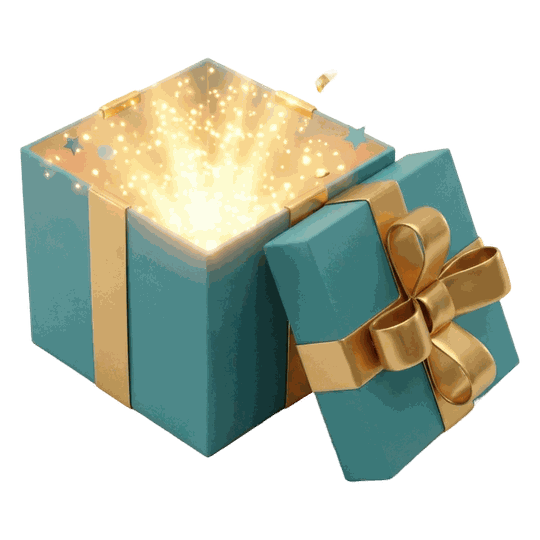
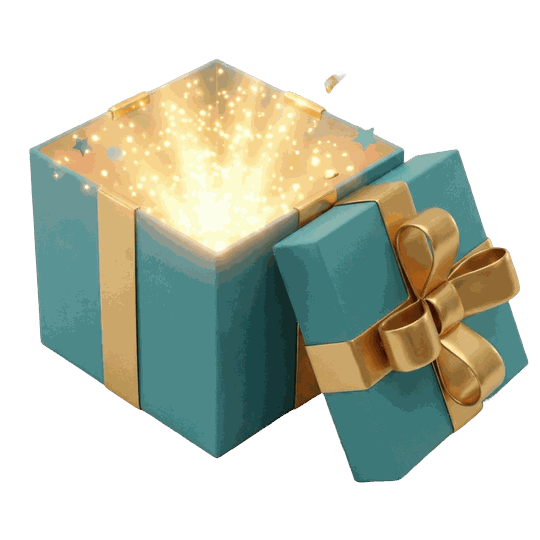
fix(medirun): opened box stays centred and whole, hub wallet shows errors and refreshes live (1.0.0.20.38)
Owner after testing: the open box looked offset and cut off; the hub's balance and history cards were
squashed together; the history said "no box opened yet" right after opening one.
- Opening screen: square artwork stage, the picture itself is never rotated (the wrapper shakes), the middle
  scrolls instead of cropping; both gift PNGs re-exported as true RGBA with the visual mass centred.
- Hub wallet: 12 px between cards; a failed request shows "couldn't load" with retry instead of the empty
  copy; the query is LIVE (re-read on every focus) and re-renders on every published balance.
- Season numbers also count boxes opened before the campaign start date.

Changed region(s): [[0.0296, 0.0889, 0.9778, 0.8889], [0.7111, 0.8296, 0.8, 0.8889], [0.6519, 0.8889, 0.7111, 0.9185]]

diff --git a/mobile/src/components/run/PulseGift.tsx b/mobile/src/components/run/PulseGift.tsx
@@ -1,5 +1,5 @@
 import React,{useEffect,useRef,useState} from 'react';
-import {Animated,Easing,Pressable,View} from 'react-native';
+import {Animated,Easing,Pressable,ScrollView,View} from 'react-native';
 import {LinearGradient} from 'expo-linear-gradient';
 import * as Haptics from 'expo-haptics';
 import {Gift,X} from 'lucide-react-native';
@@ -21,12 +21,16 @@ const COINS=10;
 
 /** Generated 3D gift (fal.ai) floating in its own glow; `open` is the discovered state. */
 export function GiftArtwork({size=210,open=false,shake}:{size?:number;open?:boolean;shake?:Animated.Value}){
- const reduced=usePrefersReducedMotion(),float=useRef(new Animated.Value(0)).current,glow=open?AMBER:'#5EEAD4';
+ const reduced=usePrefersReducedMotion(),float=useRef(new Animated.Value(0)).current,glow=open?AMBER:'#5EEAD4',box=Math.round(size*1.4);
  useEffect(()=>{if(reduced)return;const wave=(to:number)=>Animated.timing(float,{toValue:to,duration:1500,easing:Easing.inOut(Easing.sin),useNativeDriver:true});const loop=Animated.loop(Animated.sequence([wave(1),wave(0)]));loop.start();return()=>loop.stop();},[reduced,float]);
- const rotate=shake?shake.interpolate({inputRange:[-1,0,1],outputRange:['-7deg','0deg','7deg']}):'0deg';
- return <View style={{width:size*1.45,height:size*1.3,alignItems:'center',justifyContent:'center'}}>
-  <Svg pointerEvents="none" style={{position:'absolute'}} width={size*1.45} height={size*1.3}><Defs><RadialGradient id="giftGlow" cx="50%" cy="50%" r="50%"><Stop offset="0" stopColor={glow} stopOpacity={open?.6:.34}/><Stop offset="1" stopColor={glow} stopOpacity="0"/></RadialGradient></Defs><Ellipse cx="50%" cy="50%" rx="50%" ry="50%" fill="url(#giftGlow)"/></Svg>
-  <Animated.Image source={open?RUN_GIFT_OPEN:RUN_GIFT} accessibilityIgnoresInvertColors resizeMode="contain" style={{width:size,height:size,transform:[{translateY:float.interpolate({inputRange:[0,1],outputRange:[0,-10]})},{rotate}]}}/>
+ const rotate=shake?shake.interpolate({inputRange:[-1,0,1],outputRange:['-6deg','0deg','6deg']}):'0deg';
+ // A square stage: the glow is a sibling behind the picture, the picture keeps its own square and is never
+ // rotated itself (a rotated image gets clipped on Android) — the wrapper view shakes instead.
+ return <View style={{width:box,height:box,alignItems:'center',justifyContent:'center',overflow:'visible'}}>
+  <Svg pointerEvents="none" style={{position:'absolute',left:0,top:0}} width={box} height={box}><Defs><RadialGradient id={open?'giftGlowOpen':'giftGlow'} cx="50%" cy="50%" r="50%"><Stop offset="0" stopColor={glow} stopOpacity={open?.55:.34}/><Stop offset="1" stopColor={glow} stopOpacity="0"/></RadialGradient></Defs><Ellipse cx="50%" cy="50%" rx="50%" ry="50%" fill={`url(#${open?'giftGlowOpen':'giftGlow'})`}/></Svg>
+  <Animated.View style={{width:size,height:size,overflow:'visible',transform:[{translateY:float.interpolate({inputRange:[0,1],outputRange:[0,-10]})},{rotate}]}}>
+   <Animated.Image source={open?RUN_GIFT_OPEN:RUN_GIFT} accessibilityIgnoresInvertColors resizeMode="contain" style={{width:size,height:size,backgroundColor:'transparent'}}/>
+  </Animated.View>
  </View>;
 }
 
@@ -89,8 +93,8 @@ export function PulseGift({visible,signal,onClose}:{visible:boolean;signal:GiftS
     <Copy bold size={12} style={{color:MINT,letterSpacing:1.5}}>{claim?tx('შენი ახალი აღმოჩენა','YOUR NEW FIND'):tx('MEDIRUN · აღმოჩენა','MEDIRUN · A FIND')}</Copy>
     <Pressable accessibilityRole="button" accessibilityLabel={tx('დახურვა','Close')} hitSlop={8} onPress={onClose} style={{width:40,height:40,borderRadius:14,backgroundColor:'rgba(255,255,255,0.10)',alignItems:'center',justifyContent:'center'}}><X size={18} color={WHITE}/></Pressable>
    </View>
-   <View style={{flex:1,alignItems:'center',justifyContent:'center',paddingHorizontal:24,gap:6}}>
-    <View style={{alignItems:'center',justifyContent:'center'}}><GiftArtwork size={claim?180:220} open={Boolean(claim)} shake={shake}/><CoinBurst play={Boolean(claim)}/></View>
+   <ScrollView style={{flex:1}} contentContainerStyle={{flexGrow:1,alignItems:'center',justifyContent:'center',paddingHorizontal:24,paddingVertical:12,gap:6}} showsVerticalScrollIndicator={false} bounces={false}>
+    <View style={{alignItems:'center',justifyContent:'center',overflow:'visible'}}><GiftArtwork size={claim?170:210} open={Boolean(claim)} shake={shake}/><CoinBurst play={Boolean(claim)}/></View>
     {claim?<Animated.View style={{alignItems:'center',gap:6,opacity:reveal,transform:[{translateY:reveal.interpolate({inputRange:[0,1],outputRange:[24,0]})}]}}>
      {physical?<Copy bold size={28} style={{color:WHITE,textAlign:'center'}}>{claim.reward.title}</Copy>:<><CountUp to={paid}/><Copy bold size={16} style={{color:MINT,marginTop:-6}}>Medi Coins</Copy></>}
      {rank?<View style={{marginTop:10,paddingHorizontal:14,paddingVertical:8,borderRadius:16,backgroundColor:rank===1?'rgba(252,211,77,0.18)':'rgba(255,255,255,0.10)'}}><Copy bold size={13} style={{color:rank===1?AMBER:WHITE,textAlign:'center'}}>{rank===1?tx('🏆 პირველი აღმომჩენი — სრული თანხა','🏆 First finder — the full amount'):tx(`მე-${rank} გამხსნელი${claim.reward.base?` · პირველმა ${num(claim.reward.base)} აიღო`:''}`,`Opener #${rank}${claim.reward.base?` · the first got ${num(claim.reward.base)}`:''}`)}</Copy></View>:null}
@@ -102,7 +106,7 @@ export function PulseGift({visible,signal,onClose}:{visible:boolean;signal:GiftS
      <Copy size={14} style={{color:'#CCFBF1',textAlign:'center'}}>{inRange?tx('პულსმა აქ მოგიყვანა — ყუთი შენს წინაა.','The pulse led you here — the box is right in front of you.'):tx('ყუთის დიაპაზონს გასცდი. მიუახლოვდი 20 მეტრზე და გახსნა ისევ გაჩნდება.','You’ve stepped out of the box’s range. Get within 20 metres and the opening comes back.')}</Copy>
      {coinsNow?<View style={{marginTop:8,alignItems:'center',paddingHorizontal:18,paddingVertical:12,borderRadius:20,backgroundColor:'rgba(255,255,255,0.10)',gap:2}}><Copy bold size={24} style={{color:AMBER,fontVariant:['tabular-nums']}}>{num(coinsNow)} Medi Coins</Copy><Copy size={12} style={{color:'#CCFBF1',textAlign:'center'}}>{rankLine(gift||{})}</Copy></View>:gift?.description?<Copy size={12} style={{color:'#CCFBF1',textAlign:'center'}}>{gift.description}</Copy>:null}
     </View>}
-   </View>
+   </ScrollView>
    <View style={{paddingHorizontal:20,gap:10}}>
     {error?<View style={{padding:12,borderRadius:16,backgroundColor:'rgba(248,113,113,0.16)'}}><Copy size={13} style={{color:'#FECACA',textAlign:'center'}}>{error}</Copy></View>:null}
     {claim?<Action label={tx('ჩემია!','It’s mine!')} onPress={onClose}/>

diff --git a/mobile/src/components/run/RunWallet.tsx b/mobile/src/components/run/RunWallet.tsx
@@ -1,13 +1,12 @@
 import React from 'react';
 import {Pressable,View} from 'react-native';
 import {useRouter} from 'expo-router';
-import {ChevronRight,Gift,Sparkles,Store,Trophy} from 'lucide-react-native';
+import {ChevronRight,Gift,RefreshCw,Sparkles,Store,Trophy} from 'lucide-react-native';
 import {Bone} from '@/components/ui/Skeleton';
 import {QuestCoinMark} from '@/components/quest/QuestIcon';
 import {questDate} from '@/components/quest/store/QuestStoreKit';
 import {useFeatureState,isFeatureOn} from '@/lib/featureFlags';
 import {useRunWallet,type WalletRow} from '@/lib/medipulsi/wallet';
-import {getMediCoinBalanceHint} from '@/lib/quest/cache';
 import {tx} from '@/i18n/locale';
 import {useIsDark,useThemeColors} from '@/theme/colors';
 import {hubTint} from '@/theme/hub';
@@ -39,11 +38,12 @@ export function rowDetail(row:WalletRow){
 export function RunWallet(){
  const router=useRouter(),c=useThemeColors(),dark=useIsDark(),teal=runInk('teal',dark),amber=dark?AMBER_DARK:AMBER_LIGHT,flags=useFeatureState();
  const query=useRunWallet(),data=query.data;
- const hint=getMediCoinBalanceHint(),balance=hint??data?.balance??null;
+ const balance=query.liveBalance??data?.balance??null,failed=query.isError&&!data;
  const storeOn=isFeatureOn('quest',flags)&&isFeatureOn('rewardsStore',flags);
  const rows=(data?.rows||[]).slice(0,5);
  const toWallet=()=>router.push('/medi-quest/wallet' as never),toStore=()=>router.push('/medi-quest/rewards' as never);
  return <Section title="Medi Coins" link={tx('ყველა ისტორია','Full history')} onLink={toWallet}>
+  <View style={{gap:12}}>
   <Card style={{gap:14}}>
    <View style={{flexDirection:'row',alignItems:'center',gap:12}}>
     <View style={{width:46,height:46,borderRadius:15,backgroundColor:hubTint(amber,dark),alignItems:'center',justifyContent:'center'}}><QuestCoinMark size={26}/></View>
@@ -62,6 +62,7 @@ export function RunWallet(){
    </View>
   </Card>
   {query.isLoading&&!data?<Card style={{gap:10}}>{[0,1,2].map(i=><Bone key={i} height={44} radius={12}/>)}</Card>
+  :failed?<Card style={{gap:10}}><Copy bold size={14}>{tx('ისტორია ვერ ჩაიტვირთა','Couldn’t load your history')}</Copy><Copy muted size={12}>{tx('შეამოწმე ინტერნეტი და სცადე ხელახლა.','Check your connection and try again.')}</Copy><Pressable accessibilityRole="button" onPress={()=>void query.refetch()} style={{alignSelf:'flex-start',minHeight:40,paddingHorizontal:14,borderRadius:14,backgroundColor:hubTint(teal,dark),flexDirection:'row',alignItems:'center',gap:6}}><RefreshCw size={14} color={teal}/><Copy bold size={12} style={{color:teal}}>{tx('ხელახლა ცდა','Try again')}</Copy></Pressable></Card>
   :!rows.length?<Card><Copy muted size={13}>{tx('ყუთი ჯერ არ გაგიხსნია. პირველივე გახსნის ქოინები აქ გამოჩნდება — როდის, სად და რამდენი.','No box opened yet. The coins from your first opening show up here — when, where and how much.')}</Copy></Card>
   :<Card style={{paddingVertical:6,gap:0}}>
    {rows.map((row,i)=>{
@@ -74,5 +75,6 @@ export function RunWallet(){
    })}
    {(data?.rows.length||0)>rows.length?<Pressable accessibilityRole="button" onPress={toWallet} style={{minHeight:44,flexDirection:'row',alignItems:'center',justifyContent:'center',gap:6,borderTopWidth:1,borderColor:c.bg200}}><Copy bold size={13} style={{color:teal}}>{tx('ყველა მოძრაობა','All movements')}</Copy><ChevronRight size={14} color={teal}/></Pressable>:null}
   </Card>}
+  </View>
  </Section>;
 }

diff --git a/mobile/src/lib/medipulsi/wallet.ts b/mobile/src/lib/medipulsi/wallet.ts
@@ -1,8 +1,8 @@
-import {useEffect} from 'react';
+import {useEffect,useState} from 'react';
 import {useAccountQuery} from '@/hooks/useAccountQuery';
 import {FRESH} from '@/lib/queryClient';
 import {pulseApi} from '@/lib/medipulsi/client';
-import {subscribeMediCoinBalance} from '@/lib/quest/cache';
+import {getMediCoinBalanceHint,subscribeMediCoinBalance} from '@/lib/quest/cache';
 
 /** `GET /api/medipulsi/wallet` — server `src/lib/medipulsi/economy.js` walletView. Parks and dates, never a coordinate. */
 export type WalletRow={
@@ -24,10 +24,15 @@ export type RunWalletData={
 
 export const RUN_WALLET_KEY=['medirun','wallet'] as const;
 
-/** Balance + MEDIRUN history for the hub; re-read when any screen publishes a new coin balance (a box just opened). */
+/**
+ * Balance + MEDIRUN history for the hub. LIVE: re-read on every focus (the person comes back from a walk with a
+ * box just opened) and the moment any screen publishes a new coin balance; the published balance is also returned
+ * so the number on screen moves before the server answers.
+ */
 export function useRunWallet(){
- const query=useAccountQuery<RunWalletData>({key:[...RUN_WALLET_KEY],fetch:()=>pulseApi<RunWalletData>('/wallet'),staleTime:FRESH.SHORT,retry:(count,error)=>(error as {status?:number}|null)?.status!==404&&count<1});
+ const query=useAccountQuery<RunWalletData>({key:[...RUN_WALLET_KEY],fetch:()=>pulseApi<RunWalletData>('/wallet'),staleTime:FRESH.LIVE,retry:(count,error)=>(error as {status?:number}|null)?.status!==404&&count<1});
  const {refetch}=query;
- useEffect(()=>subscribeMediCoinBalance(()=>{void refetch();}),[refetch]);
- return query;
+ const [liveBalance,setLiveBalance]=useState<number|null>(()=>getMediCoinBalanceHint());
+ useEffect(()=>subscribeMediCoinBalance(value=>{setLiveBalance(value);void refetch();}),[refetch]);
+ return {...query,liveBalance};
 }

diff --git a/server/src/lib/medipulsi/economy.js b/server/src/lib/medipulsi/economy.js
@@ -161,7 +161,8 @@ export function walletRows(rows,lang='ka'){
  });
 }
 export async function walletView(userId,{db=prisma,campaign,now=Date.now(),lang='ka'}={}){
- const since=tbilisiMidnight(campaign.start),until=new Date(+tbilisiMidnight(campaign.end)+DAY);
+ // „ამ სეზონზე“: the campaign window — before it starts (test boxes, manual drops) everything so far counts.
+ const start=tbilisiMidnight(campaign.start),since=now<+start?new Date(0):start,until=new Date(+tbilisiMidnight(campaign.end)+DAY);
  const [profile,ledger,season,claims]=await Promise.all([
   db.userQuestProfile.findUnique({where:{userId},select:{cachedCoinBalance:true}}).catch(()=>null),
   db.$queryRaw`SELECT l."id", l."amount", l."createdAt", l."sourceId", l."metadata", r."meta" AS "ruleMeta" FROM "RewardLedger" l LEFT JOIN "MedipulsiClaim" c ON l."sourceId" LIKE 'claim:%' AND c."id"=substring(l."sourceId" from 7) LEFT JOIN "MedipulsiGiftRule" r ON r."giftId"=c."giftId" WHERE l."userId"=${userId} AND l."sourceType"=${COIN_SOURCE} AND l."currency"='COIN' ORDER BY l."createdAt" DESC LIMIT ${ROW_LIMIT}`.catch(()=>[]),
